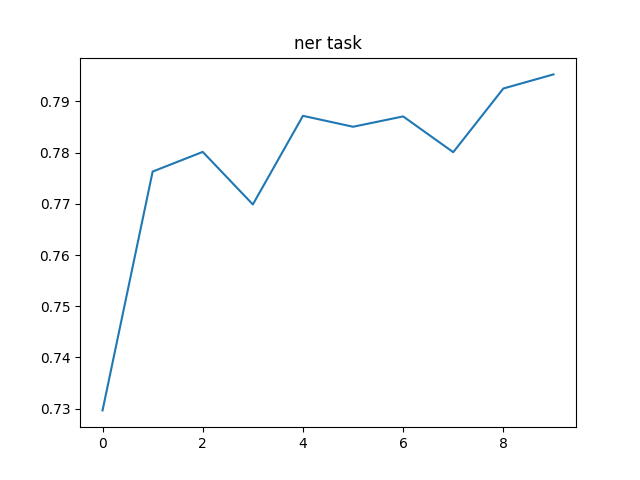
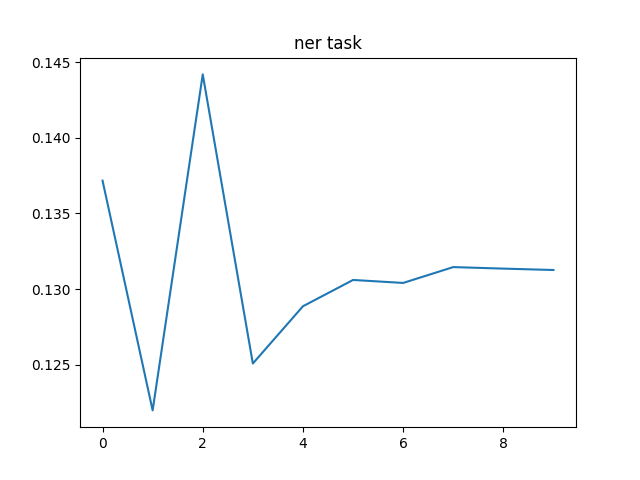
question 1 done

diff --git a/tagger1.py b/tagger1.py
@@ -12,22 +12,6 @@ idx_to_word = {}
 
 
 class Tagger(nn.Module):
-    # TODO clean this description
-    """
-    A sequence tagger,where
-    the input is a sequence of items(in our case, a sentence of natural-language words),
-    and an output is a label for each of the item.
-    The tagger will be greedy/local and window-based. For a sequence of words
-    w1,...,wn, the tag of word wi will be based on the words in a window of
-    two words to each side of the word being tagged: wi-2,wi-1,wi,wi+1,wi+2.
-    'Greedy/local' here means that the tag assignment for word i will not depend on the tags of other words
-    each word in the window will be assigned a 50 dimensional embedding vector, using an embedding matrix E.
-    MLP with one hidden layer and tanh activation function.
-    The output of the MLP will be passed through a softmax transformation, resulting in a probability distribution.
-    The network will be trained with a cross-entropy loss.
-    The vocabulary of E will be based on the words in the training set (you are not allowed to add to E words that appear only in the dev set).
-    """
-
     def __init__(self, task, vocab, labels_vocab, embedding_matrix):
         """
         Initializes a Tagger object.
@@ -41,7 +25,6 @@ class Tagger(nn.Module):
         Returns:
             None
         """
-
         super(Tagger, self).__init__()
         if task == "ner":
             output_size = 5
@@ -56,7 +39,6 @@ class Tagger(nn.Module):
         )  # 5 concat. 50 dimensional embedding vectors, output over labels
         self.in_linear = nn.Linear(input_size, hidden_size)
         self.out_linear = nn.Linear(hidden_size, output_size)
-        # self.softmax = nn.Softmax()
         self.embedding_matrix = embedding_matrix
         self.activate = nn.Tanh()
 
@@ -84,7 +66,6 @@ class Tagger(nn.Module):
         x = self.in_linear(x)
         x = self.activate(x)
         x = self.out_linear(x)
-        # x = self.softmax(x) #TODO: we are using cross-entropy loss therefore we maybe don't need softmax
         return x
 
 
@@ -114,16 +95,17 @@ def train_model(
 
     global idx_to_label
     BATCH_SIZE = 256
-    # optimizer = torch.optim.SGD(model.parameters(), lr)  # TODO: maybe change to Adam
     optimizer = torch.optim.Adam(model.parameters(), lr=lr)
-    sched = torch.optim.lr_scheduler.StepLR(optimizer, step_size=3, gamma=0.1)
+    sched = torch.optim.lr_scheduler.StepLR(optimizer, step_size=3, gamma=0.1)   # scheduler that every 3 epochs it updates the lr
     dropout = nn.Dropout(p=0.5)
     dev_loss, dev_acc, dev_acc_clean = test_model(model, dev_data, windows, task=task)
     print(
         f"Before Training, Dev Loss: {dev_loss}, Dev Acc: {dev_acc} Acc No O:{dev_acc_clean}"
     )
 
-    results = []
+    dev_loss_results = []
+    dev_acc_results = []
+    dev_acc_no_o_results = []
     for j in range(epochs):
         model.train()
         train_loader = DataLoader(
@@ -152,8 +134,10 @@ def train_model(
                 f"Epoch {j+1}/{epochs}, Loss: {train_loss/i}, Dev Loss: {dev_loss}, Dev Acc: {dev_acc}"
             )
         sched.step()
-        results.append(dev_loss)
-    return results
+        dev_loss_results.append(dev_loss)
+        dev_acc_results.append(dev_acc)
+        dev_acc_no_o_results.append(dev_acc_clean)
+    return dev_loss_results, dev_acc_results, dev_acc_no_o_results
 
 
 def test_model(model, input_data, windows, task):
@@ -308,6 +292,7 @@ def read_data(
     if not labels_vocab:
         labels_vocab = set(all_labels)
 
+    # TODO where do we use all_tokens ?
     all_tokens = replace_rare(all_tokens)
 
     # Map words to their corresponding index in the vocabulary (word:idx)
@@ -349,6 +334,7 @@ def read_data(
             label = labels_idx[i]
             windows.append((context, label))
             # windows_dict[i] = (context, label)
+    # TODO maybe we don't need to calculate it and return it ?
     tokens_idx = torch.tensor(tokens_idx_all)
     labels_idx = torch.tensor(labels_idx_all)
     return tokens_idx, labels_idx, windows, vocab, labels_vocab, windows_dict
@@ -385,26 +371,44 @@ def main(task="ner"):
     tokenx_idx_dev_new = torch.tensor([window for window, label in windows_dev])
     dev_dataset = TensorDataset(tokenx_idx_dev_new, labels_idx_dev)
     # Get the dev loss from the model training
-    results = train_model(
+    dev_loss, dev_accuracy, dev_accuracy_no_o = train_model(
         model, input_data=dataset, dev_data=dev_dataset, epochs=10, windows=windows
     )
-    # Plot the dev loss, and save
-    p = plt.plot(results, label="dev loss")
-    plt.title(f"{task} task")
-    plt.savefig(f"loss_{task}.png")
+
+
+    # # Plot the dev loss, and save
+    # plt.plot(dev_loss, label="dev loss")
+    # plt.title(f"{task} task")
+    # plt.savefig(f"loss_{task}.png")
+    # plt.show()
+    #
+    # # Plot the dev accuracy, and save
+    # plt.plot(dev_accuracy, label="dev accuracy")
+    # plt.title(f"{task} task")
+    # plt.savefig(f"accuracy_{task}.png")
+    # plt.show()
+    #
+    # # Plot the dev accuracy no O, and save
+    # plt.plot(dev_accuracy_no_o, label="dev accuracy no o")
+    # plt.title(f"{task} task")
+    # plt.savefig(f"accuracy_no_O{task}.png")
+    # plt.show()
+
+    print()
+    print("Test")
 
     # test_data
-    # dev_loss, dev_acc, dev_acc_clean = test_model(model, dev_data, windows)
+    dev_loss, dev_acc, dev_acc_clean = test_model(model, dev_dataset, windows, task="ner")
 
-    # print(
-    #     f"Test Loss: {dev_loss}, Test Acc: {dev_acc} Acc No O:{dev_acc_clean}"
-    # )
-    # tokens_idx_test, labels_idx_test, windows_test, vocab_test, labels_vocab_test, windows_dict_test = read_data(
-    #     "./ner/test",type="test"
-    # )
+    print(
+        f"Test Loss: {dev_loss}, Test Acc: {dev_acc} Acc No O:{dev_acc_clean}"
+    )
+    tokens_idx_test, labels_idx_test, windows_test, vocab_test, labels_vocab_test, windows_dict_test = read_data(
+        "./ner/test", type="test"
+    )
 
     # tokens_idx, labels_idx, windows, vocab, labels_vocab = read_data("./ner/test")
 
 
 if __name__ == "__main__":
-    main("pos")
+    main("ner")
